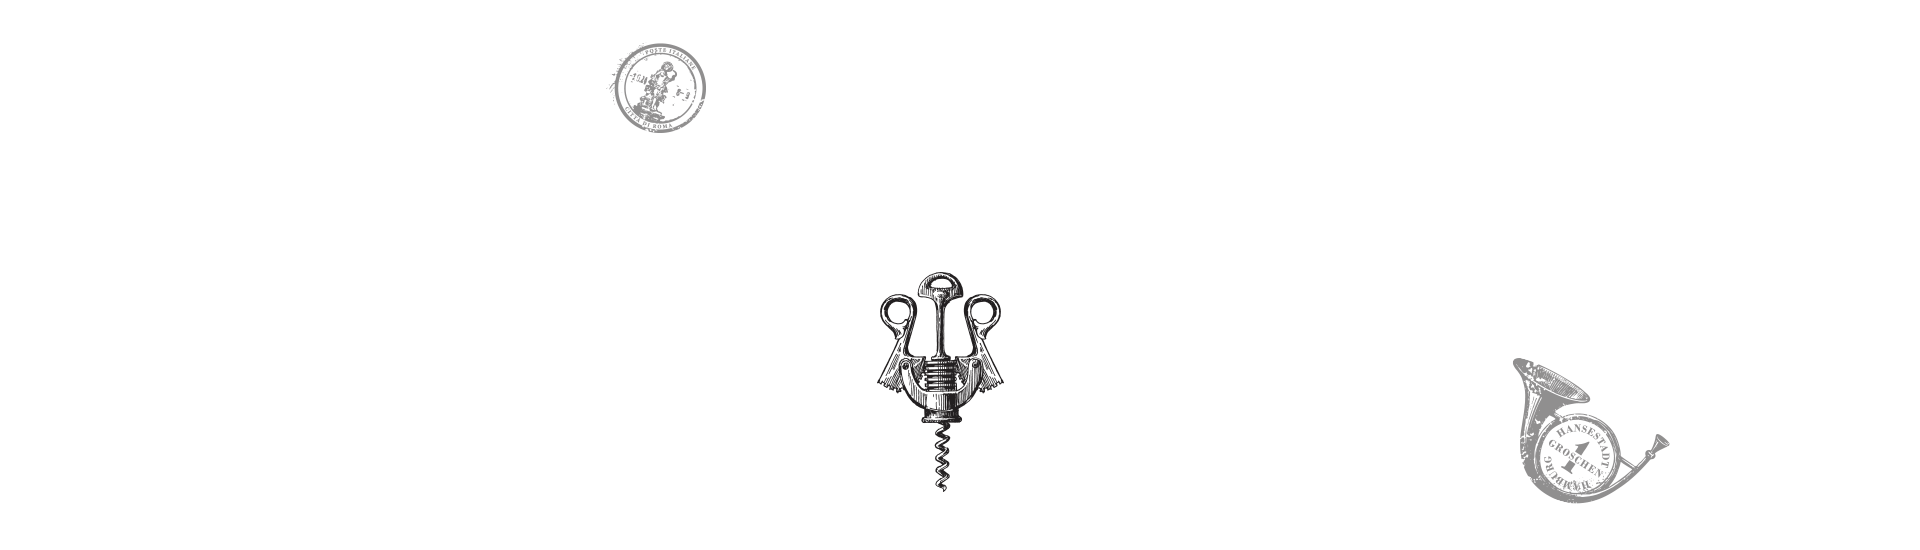
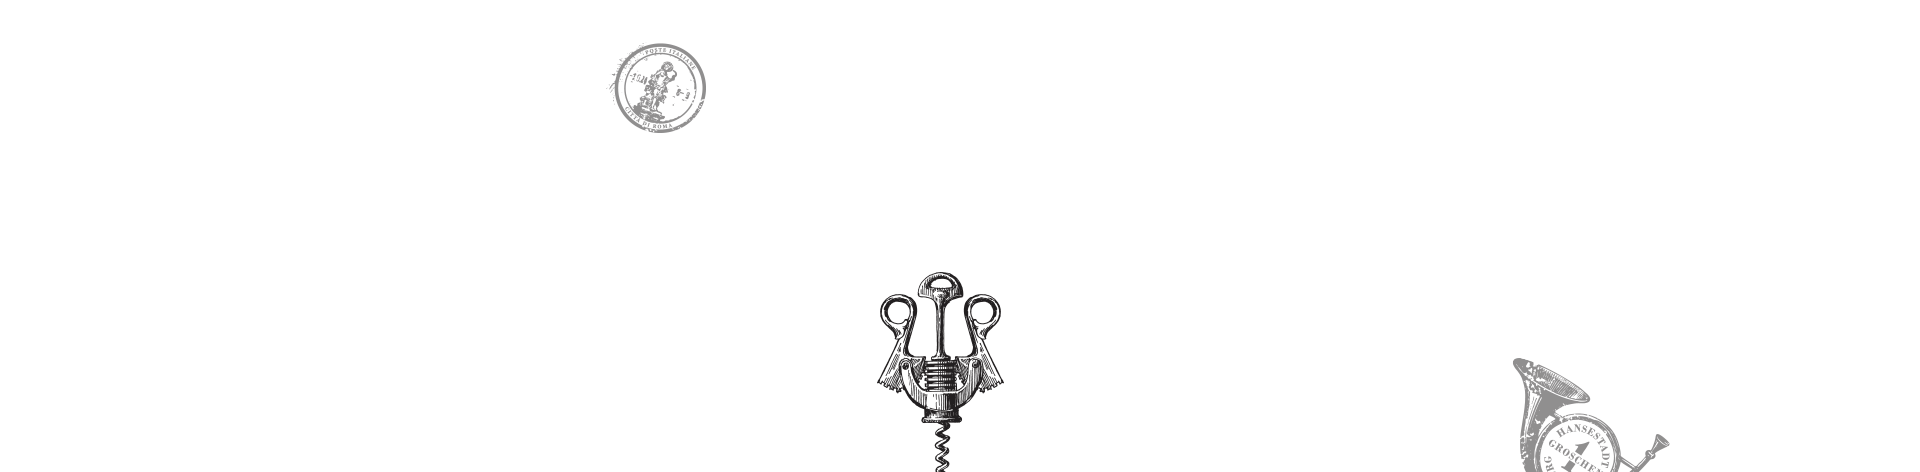
fixes

Changed region(s): [[0.4375, 0.4746, 0.5312, 1.0], [0.7812, 0.6525, 0.875, 1.0], [0.3125, 0.089, 0.375, 0.2966]]

diff --git a/sass/src/style.scss b/sass/src/style.scss
@@ -1526,6 +1526,23 @@ footer {
 }
 
 #home-insta {
+    background-image: url('assets/images/home_bg_section_04.png');
+    background-repeat: no-repeat;
+    background-size: cover;
+    background-position: bottom center;
+    &__findus {
+        font-size: 1.25rem;
+        font-family: Gabriele, sans-serif;
+        color: $black;
+        line-height: 36px;
+        margin-top: 1rem;
+        margin-bottom: 2.5rem;
+    }
+
+    &__follow {
+        margin-top: 3rem;
+    }
+
     &__carousel {
 
     }
@@ -2879,6 +2896,14 @@ div.wpcf7 {
     }
     .btn {
         margin-top: 1.75rem;
+    }
+
+    p {
+        font-size: 1.125rem !important;
+        line-height: 2rem !important;
+        &:first-child {
+            font-weight: 600;
+        }
     }
 }
 

diff --git a/front-page.php b/front-page.php
@@ -16,10 +16,12 @@ get_header(); ?>
 <?php while ( have_posts() ) : the_post(); ?>
 <section id="meetcargo" class="pattern-section text-center cf divider-top divider-black padding-section">
 	<h1 class="text-dark">Poznaj Cargo</h1>
-	<div class="col-xs-12 col-sm-offset-1 col-sm-10 col-md-offset-2 col-md-8 col-lg-offset-3 col-lg-6">
+	<div class="cf text-md text-center">
+	<div class="col-xs-12 col-sm-offset-1 col-sm-10 col-md-offset-2 col-md-8 col-lg-offset-4 col-lg-4">
 		<?php the_content(); ?>
 
 		<a href="#" class="btn btn-secondary-outline">Dowiedz się więcej</a>
+	</div>
 	</div>
 </section>
 <?php endwhile; ?>
@@ -233,7 +235,9 @@ foreach ($gallery as $key => $image) {
 	</div>
 </section>
 
-<section id="home-insta" class="padding-section pattern-section divider-black">
+<section id="home-insta" class="padding-section pattern-section divider-black text-center">
+	<h1 class="text-dark">Instagram</h1>
+	<p id="home-insta__findus">@cargokrk</p>
 <div id="home-insta__carousel" class="swiper-container">
     <div id="instafeed" class="swiper-wrapper">
       <div class="swiper-slide col-md-3">Slide #</div>
@@ -246,22 +250,15 @@ foreach ($gallery as $key => $image) {
       <div class="swiper-slide col-md-3">Slide 2</div>
       <div class="swiper-slide col-md-3">Slide 3</div>
       <div class="swiper-slide col-md-3">Slide 4</div>
-    </div>
+	</div>
+	<div id="home-insta__follow">
+		<a href="#" class="btn btn-secondary-outline">Obserwuj nas</a>
+	</div>
   </div>
 
   <!-- Swiper JS -->
   <script src="https://cdnjs.cloudflare.com/ajax/libs/Swiper/4.1.0/js/swiper.min.js"></script>
-  
-  <!-- Initialize Swiper -->
-  <script>
-    var swiper = new Swiper('#home-insta__carousel', {
-      slidesPerView: 6,
-      spaceBetween: 30,
-      centeredSlides: true,
-	  loop: true,
-	  autoplay: true,
-    });
-  </script>
+
 
 	<script src="https://cdnjs.cloudflare.com/ajax/libs/instafeed.js/1.4.1/instafeed.min.js"></script>
   	<script type="text/javascript">
@@ -278,6 +275,16 @@ foreach ($gallery as $key => $image) {
 	});
 	userFeed.run();
 	</script>
+	<!-- Initialize Swiper -->
+  <script>
+    var swiper = new Swiper('#home-insta__carousel', {
+      slidesPerView: 6,
+      spaceBetween: 30,
+      centeredSlides: true,
+	  loop: true,
+	  autoplay: true,
+    });
+  </script>
 </section>
 
 <section id="home-map" class="divider-black-top">

diff --git a/footer.php b/footer.php
@@ -52,7 +52,7 @@
 
 						<form>
 							<div class="md-form col-md-8 no-gutters">
-								<input type="text" id="defaultForm-email" class="form-control">
+								<input type="email" id="defaultForm-email" class="form-control">
 								<label for="defaultForm-email">Adres e-mail</label>
 							</div>
 							<div class="col-md-4">
